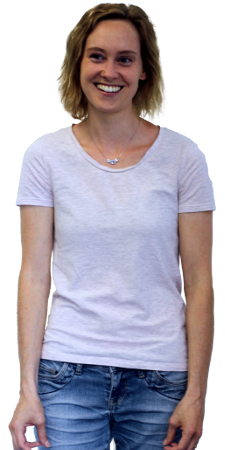
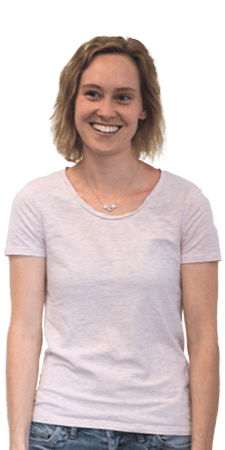
Add initial round of lab-member mugshots
Some additional adjustments are needed for color, etc. But these are all at
least acceptable.

diff --git a/content/pages/members.rst b/content/pages/members.rst
@@ -7,7 +7,7 @@ Lab Members
 
   <section class="members">
     <div class="mem">
-      <div class="mugshot" style="background-image: url(/img/mugshots/placeholders/astronaut.png);"></div>
+      <div class="mugshot" style="background-image: url(/img/mugshots/hanke.png);"></div>
       <div class="info">
         <h3>J.-Prof. Dr. Michael Hanke</h3>
         <p class="title">Principal Investigator</p>
@@ -26,7 +26,7 @@ Lab Members
     </div>
 
     <div class="mem">
-      <div class="mugshot" style="background-image: url(/img/mugshots/placeholders/woody.png);"></div>
+      <div class="mugshot" style="background-image: url(/img/mugshots/waite.png);"></div>
       <div class="info">
         <h3>Alex Waite</h3>
         <p class="title">IT Specialist</p>
@@ -83,7 +83,7 @@ Lab Members
     </div>
 
     <div class="mem">
-      <div class="mugshot" style="background-image: url(/img/mugshots/placeholders/brush.png);"></div>
+      <div class="mugshot" style="background-image: url(/img/mugshots/poldrack.png);"></div>
       <div class="info">
         <h3>Dipl.-Inf. Benjamin Poldrack</h3>
         <p class="title">Datalad Developer</p>
@@ -103,7 +103,7 @@ Lab Members
     </div>
 
     <div class="mem">
-      <div class="mugshot" style="background-image: url(/img/mugshots/placeholders/parrot.png);"></div>
+      <div class="mugshot" style="background-image: url(/img/mugshots/kaule.png);"></div>
       <div class="info">
         <h3>Dipl.-Neurowiss. Falko R. Kaule</h3>
         <p class="title">PhD Student</p>
@@ -121,7 +121,7 @@ Lab Members
     </div>
 
     <div class="mem">
-      <div class="mugshot" style="background-image: url(/img/mugshots/placeholders/astronaut.png);"></div>
+      <div class="mugshot" style="background-image: url(/img/mugshots/haeusler.png);"></div>
       <div class="info">
         <h3>Christian Häusler (B.Sc.)</h3>
         <p class="title">Research Assistant</p>
@@ -188,7 +188,7 @@ Alumni
     </div>
 
     <div class="mem">
-      <div class="mugshot" style="background-image: url(/img/mugshots/placeholders/astronaut.png);"></div>
+      <div class="mugshot" style="background-image: url(/img/mugshots/placeholders/brush.png);"></div>
       <div class="info">
         <h3>Moritz Boos</h3>
         <p class="blurb">Gather ye rosebuds while ye may &mdash; Robert Herrick</p>
@@ -200,7 +200,7 @@ Alumni
     </div>
 
     <div class="mem">
-      <div class="mugshot" style="background-image: url(/img/mugshots/placeholders/astronaut.png);"></div>
+      <div class="mugshot" style="background-image: url(/img/mugshots/placeholders/elvis.png);"></div>
       <div class="info">
         <h3>Michael Notter</h3>
         <p class="blurb">Gather ye rosebuds while ye may &mdash; Robert Herrick</p>
@@ -211,7 +211,7 @@ Alumni
     </div>
 
     <div class="mem">
-      <div class="mugshot" style="background-image: url(/img/mugshots/placeholders/astronaut.png);"></div>
+      <div class="mugshot" style="background-image: url(/img/mugshots/placeholders/woody.png);"></div>
       <div class="info">
         <h3>Richard Dinga</h3>
         <p class="blurb">Gather ye rosebuds while ye may &mdash; Robert Herrick</p>
@@ -222,7 +222,7 @@ Alumni
     </div>
 
     <div class="mem">
-      <div class="mugshot" style="background-image: url(/img/mugshots/placeholders/astronaut.png);"></div>
+      <div class="mugshot" style="background-image: url(/img/mugshots/kottke.png);"></div>
       <div class="info">
         <h3>Daniel Kottke</h3>
         <p class="blurb">Gather ye rosebuds while ye may &mdash; Robert Herrick</p>
